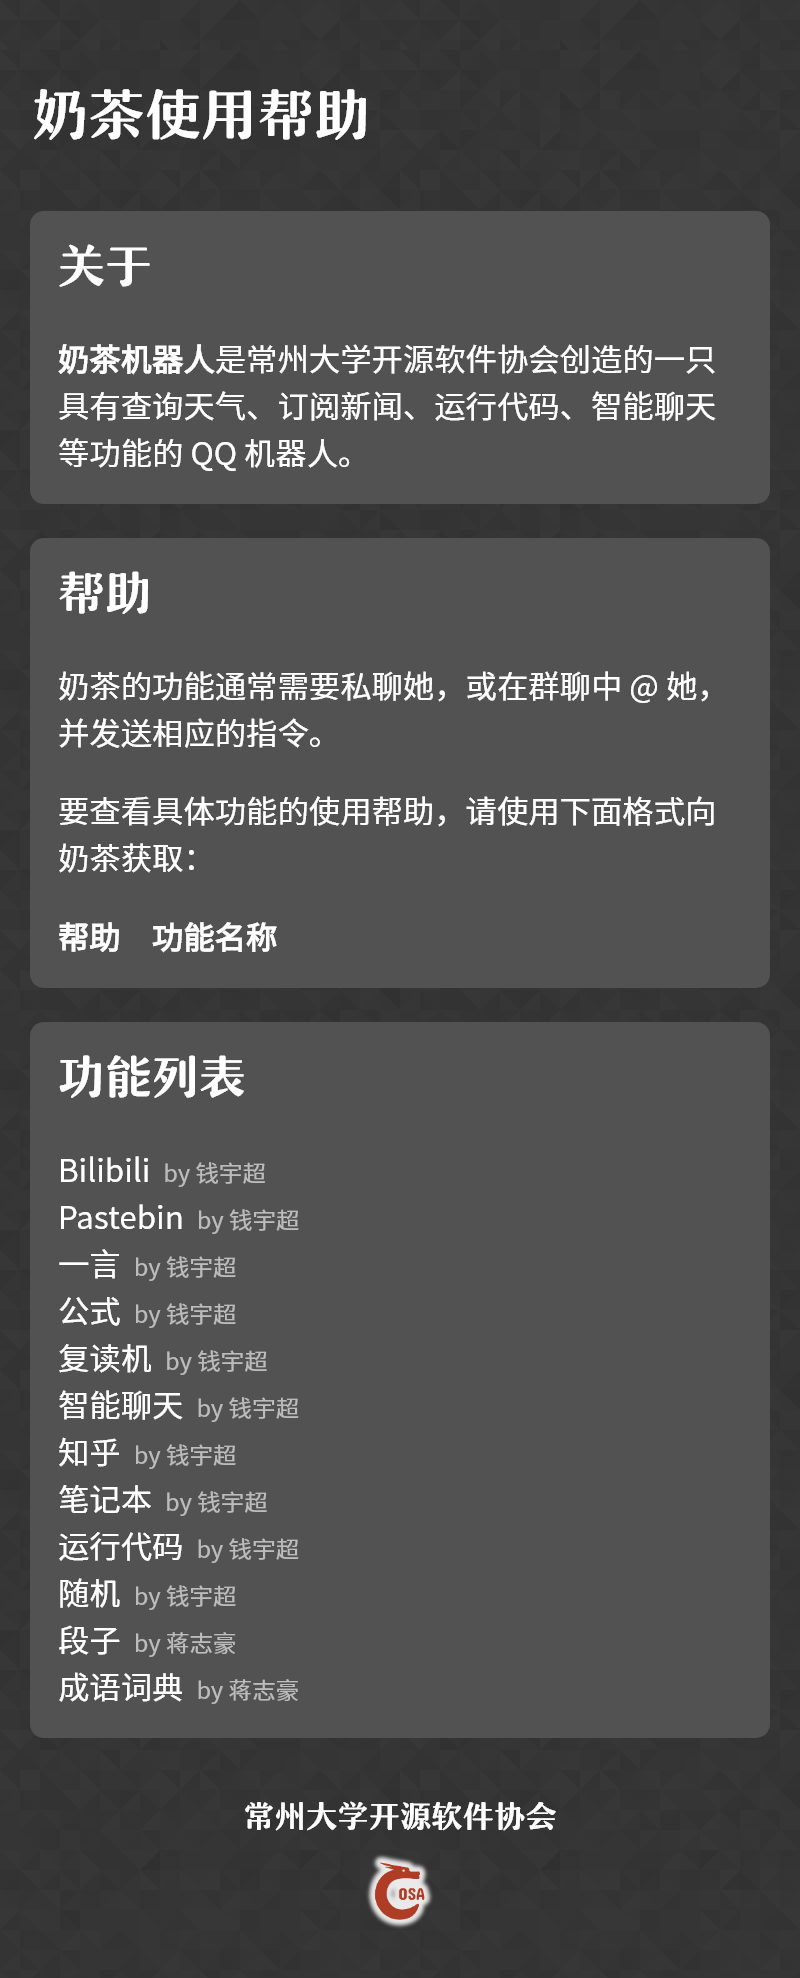
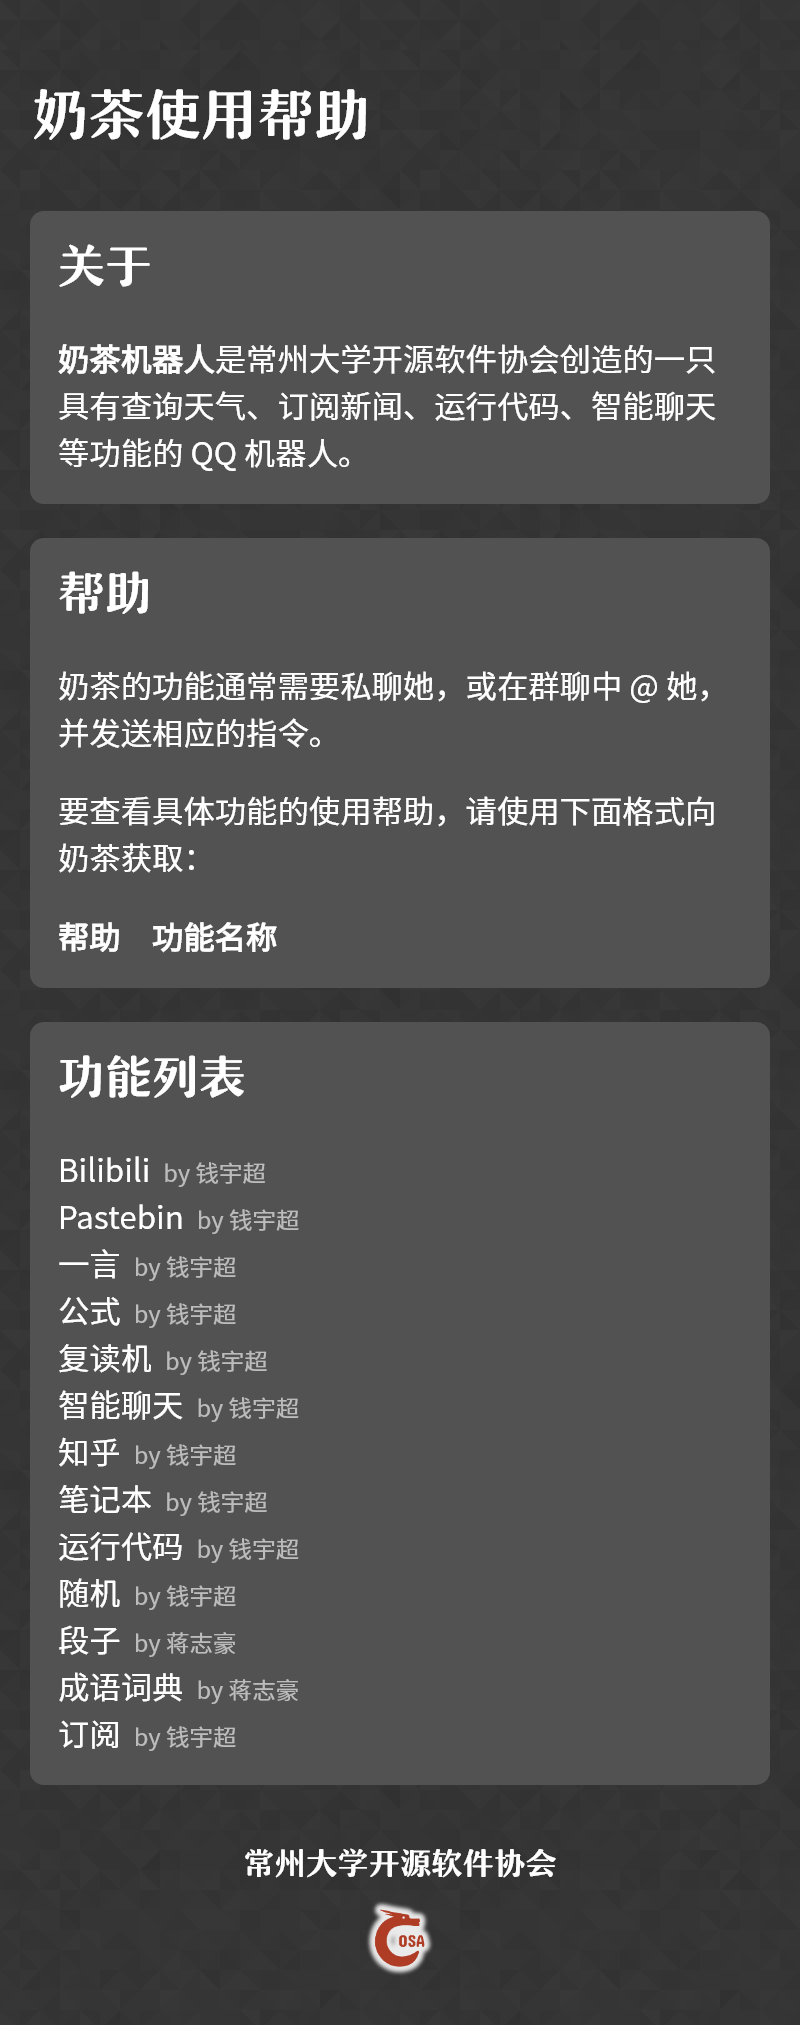
更新帮助文档

diff --git a/manual/订阅.html b/manual/订阅.html
@@ -1,0 +1,185 @@
+<h1>订阅</h1>
+
+<section>
+  <h2>说明</h2>
+  <p>
+    本功能用于订阅消息推送，比如让奶茶在每天固定时间发送知乎日报，或早安问候，就好像你在相应时间跟奶茶进行了对话一样。
+  </p>
+</section>
+
+<section>
+  <h2>示例</h2>
+  <div class="bubble-wrapper right">
+    <div class="bubble">
+      <p>
+        订阅
+      </p>
+    </div>
+  </div>
+  <div class="bubble-wrapper left">
+    <div class="bubble">
+      <p>
+        你想订阅什么内容呢？
+      </p>
+    </div>
+  </div>
+  <div class="bubble-wrapper right">
+    <div class="bubble">
+      <p>
+        知乎日报
+      </p>
+    </div>
+  </div>
+  <div class="bubble-wrapper left">
+    <div class="bubble">
+      <p>
+        你希望我在每天的什么时候给你推送呢？<br>
+        （请使用24小时制，并使用阿拉伯数字表示小时和分钟）
+      </p>
+    </div>
+  </div>
+  <div class="bubble-wrapper right">
+    <div class="bubble">
+      <p>
+        9点
+      </p>
+    </div>
+  </div>
+  <div class="bubble-wrapper left">
+    <div class="bubble">
+      <p>
+        是否希望我在推送消息的时候重复你上面发的消息内容呢？（请回答是或否）
+      </p>
+    </div>
+  </div>
+  <div class="bubble-wrapper right">
+    <div class="bubble">
+      <p>
+        否
+      </p>
+    </div>
+  </div>
+  <div class="bubble-wrapper left">
+    <div class="bubble">
+      <p>
+        订阅成功啦，下次推送时间 2019-01-20 09:00
+      </p>
+    </div>
+  </div>
+  <div class="bubble-wrapper right">
+    <div class="bubble">
+      <p>
+        查看订阅
+      </p>
+    </div>
+  </div>
+  <div class="bubble-wrapper left">
+    <div class="bubble">
+      <p>
+        序号：1<br>
+        下次推送时间：2019-01-20 09:00:00<br>
+        订阅内容：知乎日报
+      </p>
+    </div>
+  </div>
+  <div class="bubble-wrapper left">
+    <div class="bubble">
+      <p>
+        以上是所有的 1 个订阅
+      </p>
+    </div>
+  </div>
+  <div class="bubble-wrapper right">
+    <div class="bubble">
+      <p>
+        取消订阅
+      </p>
+    </div>
+  </div>
+  <div class="bubble-wrapper left">
+    <div class="bubble">
+      <p>
+        序号：1<br>
+        下次推送时间：2019-01-20 09:00:00<br>
+        订阅内容：知乎日报
+      </p>
+    </div>
+  </div>
+  <div class="bubble-wrapper left">
+    <div class="bubble">
+      <p>
+        以上是所有的 1 个订阅
+      </p>
+    </div>
+  </div>
+  <div class="bubble-wrapper left">
+    <div class="bubble">
+      <p>
+        你想取消哪一个订阅呢？（请发送序号）
+      </p>
+    </div>
+  </div>
+  <div class="bubble-wrapper right">
+    <div class="bubble">
+      <p>
+        1
+      </p>
+    </div>
+  </div>
+  <div class="bubble-wrapper left">
+    <div class="bubble">
+      <p>
+        取消订阅成功
+      </p>
+    </div>
+  </div>
+</section>
+
+<section class="bg-color-1">
+  <h2>格式</h2>
+
+  <h3>订阅</h3>
+  <p>
+    订阅　[要订阅的内容]
+  </p>
+
+  <p>
+    PS: 要订阅的内容是指希望奶茶回复你的消息内容，比如：<br>
+    - 今天某某动漫更新了吗？<br>
+    - 查成语　破釜沉舟
+  </p>
+
+  <p>PS: 如果没有发送要订阅的内容，奶茶会交互式地询问</p>
+
+  <h3>查看订阅</h3>
+  <p>
+    查看订阅
+  </p>
+
+  <h3>取消订阅</h3>
+  <p>
+    取消订阅
+  </p>
+</section>
+
+<section class="bg-color-2">
+  <h2>命令别名</h2>
+
+  <h3>订阅</h3>
+  <p>
+    subscribe.subscribe, 订阅
+  </p>
+
+  <h3>查看订阅</h3>
+  <p>
+    subscribe.show, 查看订阅, 我的订阅
+  </p>
+
+  <h3>取消笔记</h3>
+  <p>
+    subscribe.unsubscribe, 取消订阅, 停止订阅, 关闭订阅
+  </p>
+</section>
+
+<link rel="stylesheet" href="css/style.css">
+<script src="js/genpage.js"></script>

diff --git a/manual/index.html b/manual/index.html
@@ -33,6 +33,7 @@
     随机 <span class="author">by 钱宇超</span><br>
     段子 <span class="author">by 蒋志豪</span><br>
     成语词典 <span class="author">by 蒋志豪</span><br>
+    订阅 <span class="author">by 钱宇超</span><br>
   </p>
 </section>
 
